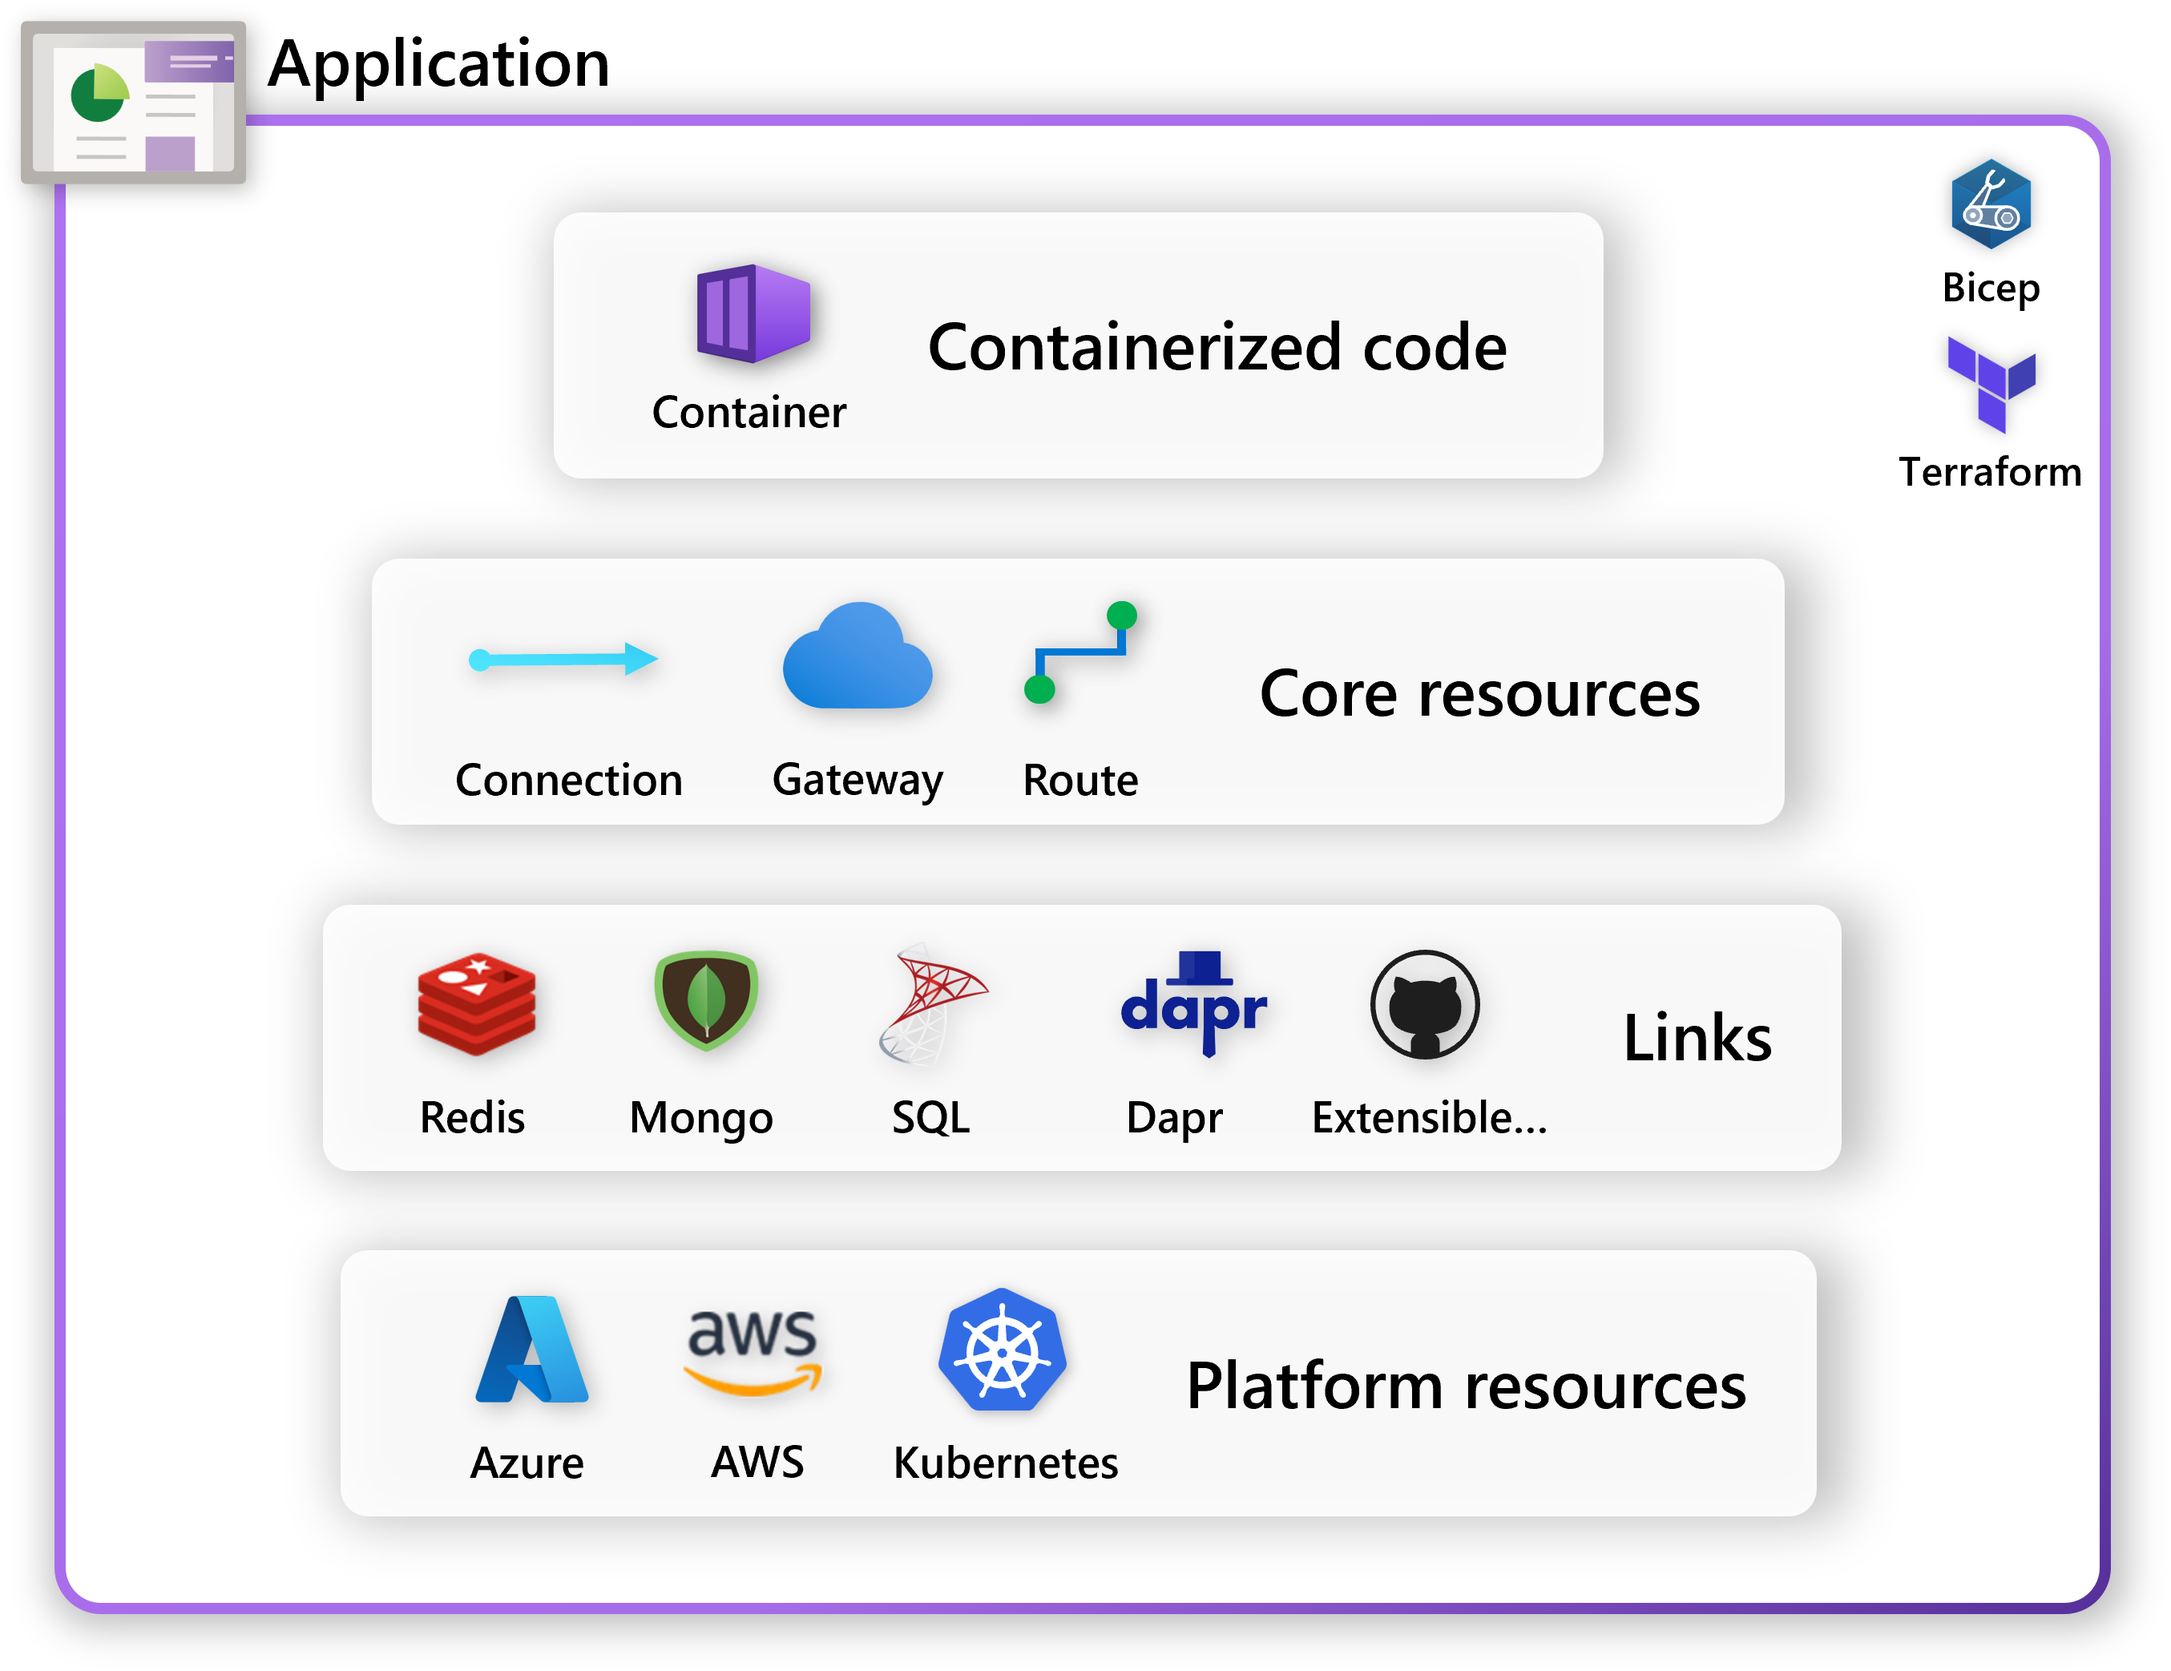
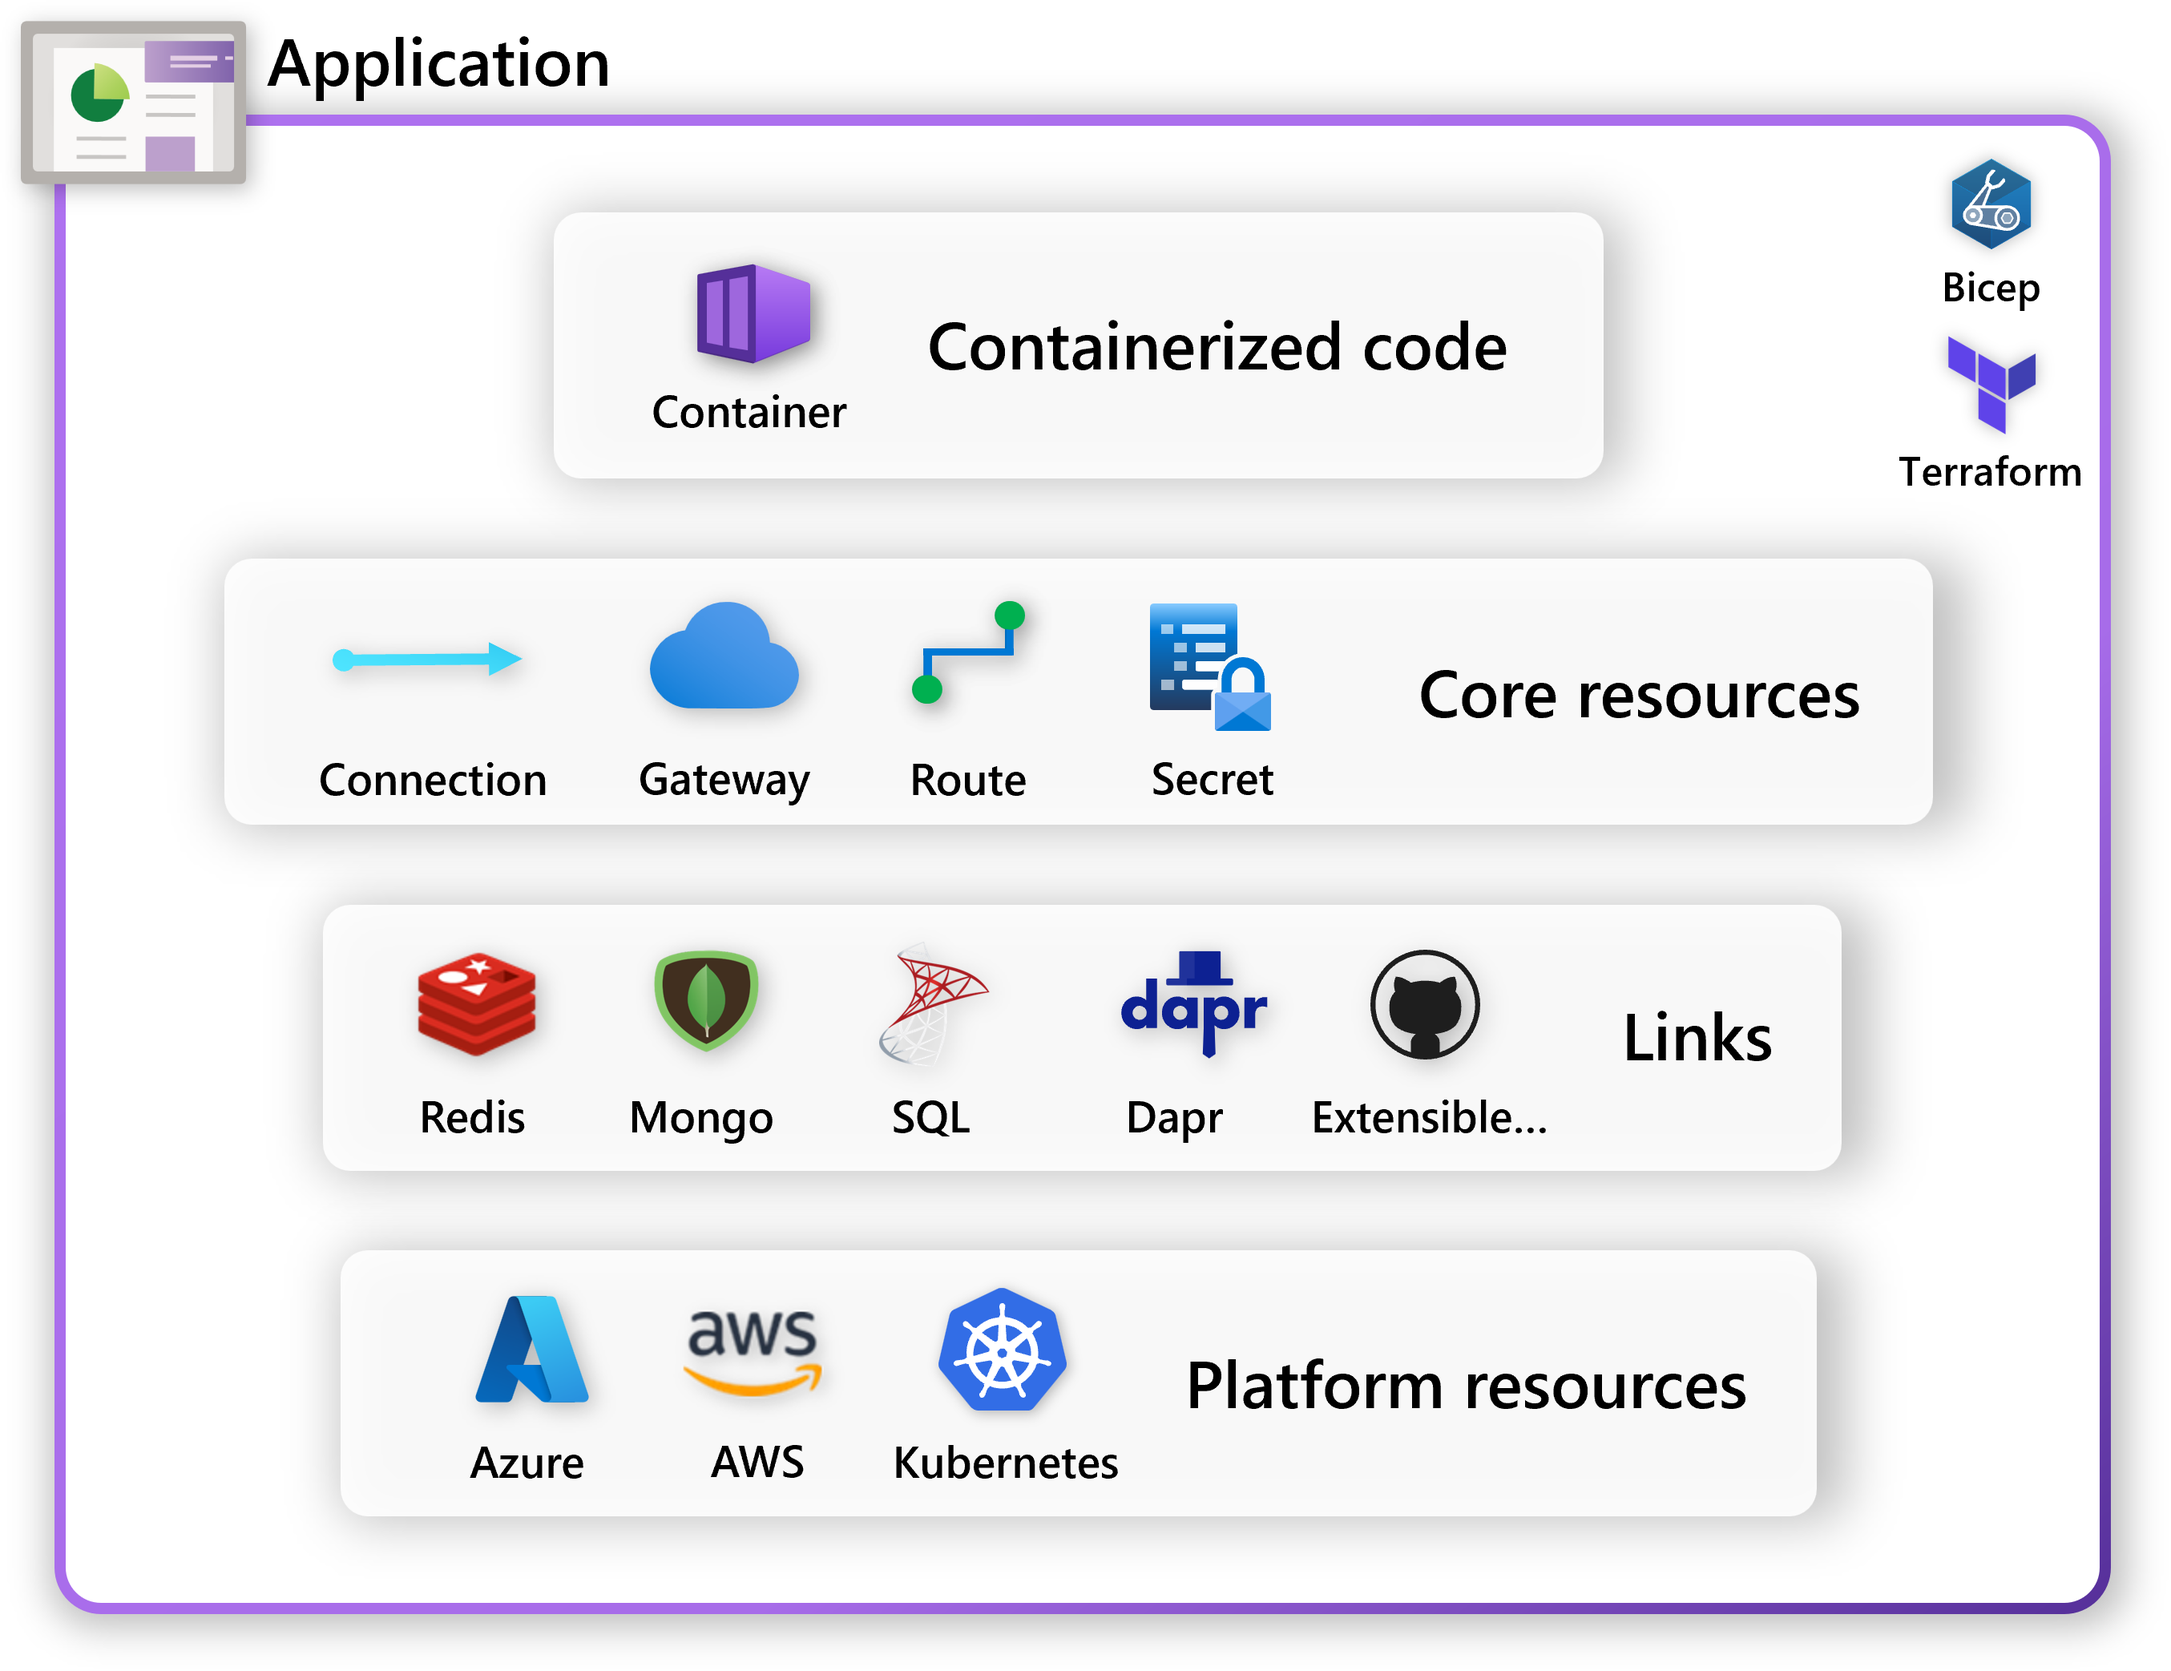
add secret store feature to docs

Changed region(s): [[0.124, 0.3118, 0.9302, 0.4988], [0.093, 0.3741, 0.124, 0.4676], [0.124, 0.3118, 0.155, 0.3429]]

diff --git a/docs/content/author-apps/secrets/_index.md b/docs/content/author-apps/secrets/_index.md
@@ -1,0 +1,32 @@
+---
+type: docs
+title: "Secrets management"
+linkTitle: "Secrets"
+description: "Learn how to create and reference secrets in your Radius application"
+weight: 210
+categories: "Concept"
+tags: ["secrets"]
+---
+
+## Overview
+
+Sensitive data, such as TLS certificates, tokens, passwords, and keys that serve as digital authentication credentials are commonly referred to as secrets. A Radius Secret Store enables you to either store these secrets or reference existing secrets stored in external secret management solutions. Kubernetes Secrets is currently supported with others, such as Azure Keyvault or AWS Secrets Manager, coming in the future.
+
+An independent resource with its own lifecycle, a Radius Secret Store ensures that data is persisted across container restarts or mounts and can interact directly with the Radius Application Model. For instance, an Applications.Core/gateways resource can use this resource to store a TLS certificate and reference it.
+
+## Create a new Secret Store
+
+Here is an example for creating a new Secret Store resource and storing a TLS certificate in it. Radius leverages the secrets management solution available on the hosting platform to create and store the secret. For example, if you are deploying to Kubernetes, the secret will be created in Kubernetes Secrets.
+
+{{< rad file="snippets/secretstore.bicep" embed=true marker="//SECRET_STORE_NEW" >}}
+
+## Reference an existing Secret Store
+
+Here is an example of using a Secret Store to reference secrets stores in an existing secrets management solution that is external to the Radius application stack. Note that only references to Kubernetes Secrets is currently supported, with more to come in the future.
+
+{{< rad file="snippets/secretstore.bicep" embed=true marker="//SECRET_STORE_REF" >}}
+
+## Further reading
+
+- [How To: TLS termination with your own TLS certificate]({{< ref tls-termination >}})
+- [How To: TLS termination with a certificate from Let's Encrypt]({{< ref tls-termination-letsencrypt >}})
